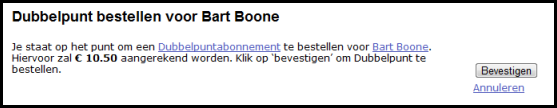
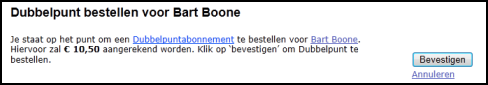
uitleg over deadlines toegevoegd, met links naar de juiste handleiding, nog wat updates van screenshots, en verouderde links aangepast refs #649, #95
git-svn-id: https://develop.chiro.be/subversion/cg2/trunk@1921 99b415e2-69d1-4072-8d93-0ed3a15484ab

Changed region(s): [[0.0, 0.3765, 0.7992, 0.7529], [0.0, 0.0235, 1.0, 0.9882], [0.0, 0.0706, 0.5225, 0.2353]]

diff --git a/Solution/Chiro.Gap.WebApp/HtmlHelpers/CheckBoxListHelper.cs b/Solution/Chiro.Gap.WebApp/HtmlHelpers/CheckBoxListHelper.cs
@@ -11,90 +11,90 @@ using System.Web.Mvc;
 
 namespace Chiro.Gap.WebApp.HtmlHelpers
 {
-	/// <summary>
-	/// Klasse die de status van een checkbox omschrijft
-	/// </summary>
-	/// <remarks>
-	/// Dank aan http://blogs.msdn.com/miah/archive/2008/11/10/checkboxlist-helper-for-mvc.aspx
-	/// </remarks>
-	public class CheckBoxListInfo
-	{
-		/// <summary>
-		/// Constructor voor CheckBoxListInfo
-		/// </summary>
+    /// <summary>
+    /// Klasse die de status van een checkbox omschrijft
+    /// </summary>
+    /// <remarks>
+    /// Dank aan http://blogs.msdn.com/miah/archive/2008/11/10/checkboxlist-helper-for-mvc.aspx
+    /// </remarks>
+    public class CheckBoxListInfo
+    {
+        /// <summary>
+        /// Constructor voor CheckBoxListInfo
+        /// </summary>
         /// <param name="value">Waarde die doorgegeven moet worden als het item aangekruist is</param>
         /// <param name="displayText">Tekst die de gebruiker te zien krijgt na de checkbox</param>
-		/// <param name="isChecked">Bepaalt de huidige status van de checkbox</param>
-		public CheckBoxListInfo(string value, string displayText, bool isChecked)
-		{
-			Value = value;
-			DisplayText = displayText;
-			IsChecked = isChecked;
-		}
+        /// <param name="isChecked">Bepaalt de huidige status van de checkbox</param>
+        public CheckBoxListInfo(string value, string displayText, bool isChecked)
+        {
+            Value = value;
+            DisplayText = displayText;
+            IsChecked = isChecked;
+        }
 
-		public string Value { get; private set; }
-		public string DisplayText { get; private set; }
-		public bool IsChecked { get; private set; }
-	}
+        public string Value { get; private set; }
+        public string DisplayText { get; private set; }
+        public bool IsChecked { get; private set; }
+    }
 
-	/// <summary>
-	/// HTML-helper voor een (dynamische) lijst van checkboxes
-	/// Belangrijk: als er niets wordt aangeklikt, wordt NULL teruggegeven ipv een lege lijst
-	/// </summary>
-	public static class CheckBoxListHelper
-	{
-		public static string CheckBoxList(this HtmlHelper htmlHelper, string name, IEnumerable<CheckBoxListInfo> listInfo)
-		{
-			if (listInfo == null)
-			{
-				throw new ArgumentNullException("listInfo");
-			}
-			if (listInfo.Count() < 1)
-			{
-				throw new ArgumentException(@"The list must contain at least one value", "listInfo");
-			}
+    /// <summary>
+    /// HTML-helper voor een (dynamische) lijst van checkboxes
+    /// Belangrijk: als er niets wordt aangeklikt, wordt NULL teruggegeven ipv een lege lijst
+    /// </summary>
+    public static class CheckBoxListHelper
+    {
+        public static string CheckBoxList(this HtmlHelper htmlHelper, string name, IEnumerable<CheckBoxListInfo> listInfo)
+        {
+            if (listInfo == null)
+            {
+                throw new ArgumentNullException("listInfo");
+            }
+            if (listInfo.Count() < 1)
+            {
+                throw new ArgumentException(@"The list must contain at least one value", "listInfo");
+            }
 
-			var sb = new StringBuilder();
-			foreach (var info in listInfo)
-			{
-				sb.Append(htmlHelper.CheckBoxList(name, info));
-			}
-			return sb.ToString();
-		}
+            var sb = new StringBuilder();
+            foreach (var info in listInfo)
+            {
+                sb.Append(htmlHelper.CheckBoxList(name, info));
+            }
+            return sb.ToString();
+        }
 
-		/// <summary>
-		/// Voeg 1 checkbox toe aan de lijst per keer
-		/// </summary>
-		/// <param name="htmlHelper"></param>
-		/// <param name="opslagLijst"></param>
-		/// <param name="info"></param>
-		/// <returns></returns>
-		public static string CheckBoxList(this HtmlHelper htmlHelper, string opslagLijst, CheckBoxListInfo info)
-		{
-			if (String.IsNullOrEmpty(opslagLijst))
-			{
-				throw new ArgumentException(@"The argument must have a value", "opslagLijst");
-			}
-			if (info == null)
-			{
-				throw new ArgumentNullException("info");
-			}
+        /// <summary>
+        /// Voeg 1 checkbox toe aan de lijst per keer
+        /// </summary>
+        /// <param name="htmlHelper"></param>
+        /// <param name="opslagLijst"></param>
+        /// <param name="info"></param>
+        /// <returns></returns>
+        public static string CheckBoxList(this HtmlHelper htmlHelper, string opslagLijst, CheckBoxListInfo info)
+        {
+            if (String.IsNullOrEmpty(opslagLijst))
+            {
+                throw new ArgumentException(@"The argument must have a value", "opslagLijst");
+            }
+            if (info == null)
+            {
+                throw new ArgumentNullException("info");
+            }
 
-			var sb = new StringBuilder();
+            var sb = new StringBuilder();
 
-			var builder = new TagBuilder("input");
-			if (info.IsChecked)
-			{
-				builder.MergeAttribute("checked", @"checked");
-			}
-			//builder.MergeAttributes(htmlAttributes);
-			builder.MergeAttribute("type", @"checkbox");
-			builder.MergeAttribute("value", info.Value);
-			builder.MergeAttribute("name", opslagLijst);
-			sb.Append(builder.ToString(TagRenderMode.SelfClosing));
-			sb.Append(info.DisplayText);
-
-			return sb.ToString();
-		}
-	}
+            var builder = new TagBuilder("input");
+            if (info.IsChecked)
+            {
+                builder.MergeAttribute("checked", @"checked");
+            }
+            //builder.MergeAttributes(htmlAttributes);
+            builder.MergeAttribute("type", @"checkbox");
+            builder.MergeAttribute("value", info.Value);
+            builder.MergeAttribute("name", opslagLijst);
+            sb.Append(builder.ToString(TagRenderMode.SelfClosing));
+            sb.Append(info.DisplayText);
+            sb.Append("<br />");
+            return sb.ToString();
+        }
+    }
 }
